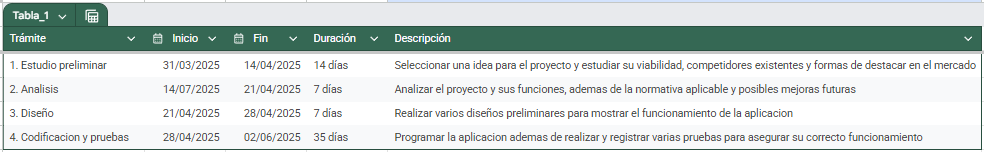
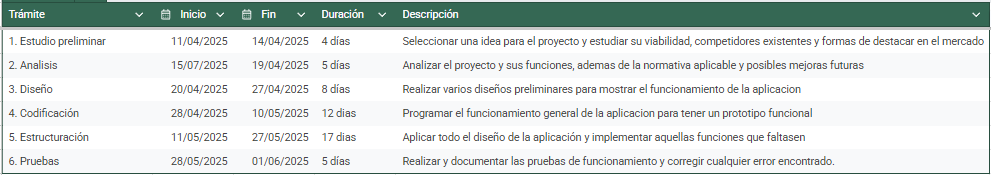
Anteproyecto-2-11/04

diff --git a/plantilla-proxecto/doc/templates/1_Anteproxecto.md b/plantilla-proxecto/doc/templates/1_Anteproxecto.md
@@ -21,20 +21,15 @@
 
 ## 1- Descrición do proxecto
 
-Este proyecto consiste en una plataforma web mediante la cual cualquier persona pueda enterarse de que cursos tiene disponibles a nivel nacional. 
-Se centra principalmente en aquellos cursos que no son ofrecidos directamente por el estado, como es el caso de los ciclos, si no por organizaciones concretas o particulares.
+Este proyecto consiste en una plataforma web mediante la cual gestionar las citas y reservas de pequeños negocios locales.
 
-El objetivo es facilitar el acceso a estos cursos a cualquier persona interesada en formarse en alguna materia concreta y agilizar el proceso de matriculacion.
+Los usuarios pueden crear una cuenta y reservar cita desde ahi, pudiendo gestionarlas, reprogramarlas, recibir notificaciones respecto a su cita,...
 
-El usuario podra visualizar en que cursos esta matriculado o cuales tiene disponibles para su matriculacion y su informacion, tal como numero de plazas restantes, si es presencial o telematico, si ofrece alguna titulacion o la fecha de inicio y finalizacion. En caso de que el curso requiera algun pago este se gestionara mediante una aplicacion externa.
+Se mostrará una lista de los servicios que ofrece la empresa para que el usuario seleccione cual o cuales desea y ademas incluya cualquier informacion adicional.
 
-Por parte del cliente, a traves de esta plataforma tiene un lugar desde el que poder promocionar sus cursos a un amplio público a cambio de un pago por crear el curso con la posibilidad de crear un modelo de suscripción que ofrezca ventajas como un mejor posicionamiento o crear x cursos mensual o anualmente sin coste adicional.
+Por parte de la empresa, esta puede consultar las citas que se han reservado y gestionarlas.
 
-Si bien existen aplicaciones similares, en la mayoria de los casos suelen estar enfocadas a una materia especifica o a los cursos elaborados por una organizacion en concreto. Con esta aplicación se busca aunar en un solo lugar la mayor cantidad posible para todo tipo de materias, buscando sobretodo atraer a las organizaciones mas pequeñas y a particulares, dandoles una forma más cómoda de gestionar sus cursos.
-
-El objetivo final de los cursos no es solo alcanzar un titulo, si no formar a los usuarios. Se ofrece la opcion a los clientes de promocionar sus cursos aunque no otorguen una titulacion como tal, siempre y cuando se demuestre de antemano que el contenido de los mismos sea adecuado mediante una revision preliminar.
-
-Para la realizacion del proyecto se combinaran varias tecnologias. Por la parte del cliente se utilizará fundamentalmente html, css y javascript mientras que por la parte del servidor se utilizará php, ya sea en docker o laravel, junto a una base de datos.
+Para la realizacion del proyecto se combinaran varias tecnologias, como por ejemplo html, css, javascript y php, ademas de una base de datos relacional.
 
 
 ## 2- Empresa
@@ -130,28 +125,21 @@ Este negocio diferencia entre usuarios y clientes:
 
 ## 3- Requirimentos técnicos
 
-Para realizar la aplicación será necesario contar con una infraestructura consistente de:
+### Infraestructura
 
-- Un **servidor de bases de datos** que almacene la informacion referente a los usuarios y cursos.
-- Un **dominio** para acceder a la aplicación. 
-- Un **servidor web dedicado** donde alojar la aplicacion web para su utilizacion.
+Para realizar la aplicación será necesario contar con una infraestructura compuesta por de:
+
+- Un **servidor de bases de datos** que almacene la informacion referente a los usuarios y sus reservas.
+- Un **dominio** para acceder facilmente a la aplicación. 
+- Un **servidor web dedicado** donde alojar la aplicacion web para su puesta en producción.
 
 ### Backend
 
-En cuanto a Backend se se utilizará **PHP**, ya sea con **Docker** o **Laravel**, junto a una base de datos, como por ejemplo **MariaDB**. 
-Esta parte se encargará de:
-
-- La gestion de los usuarios y clientes.
-- Del proceso de matriculacion.
-- De almacenar la información referente a los cursos y su creación.
+En el desarrollo del Backend se se utilizará **PHP** junto a una base de datos relacional. 
 
 ### Frontend
 
-En cuanto a Frontend se utilizará fundamentalmente **HTML**, **CSS** y **JavaScript** par:
-
-- Gestionar el como se muestran los cursos.
-- El acceso a la informacion de los mismos.
-- La distribucion de la aplicación.
+En cuanto a Frontend se utilizará fundamentalmente **HTML**, **CSS** y **JavaScript**
 
 ## 4- Planificación
 
